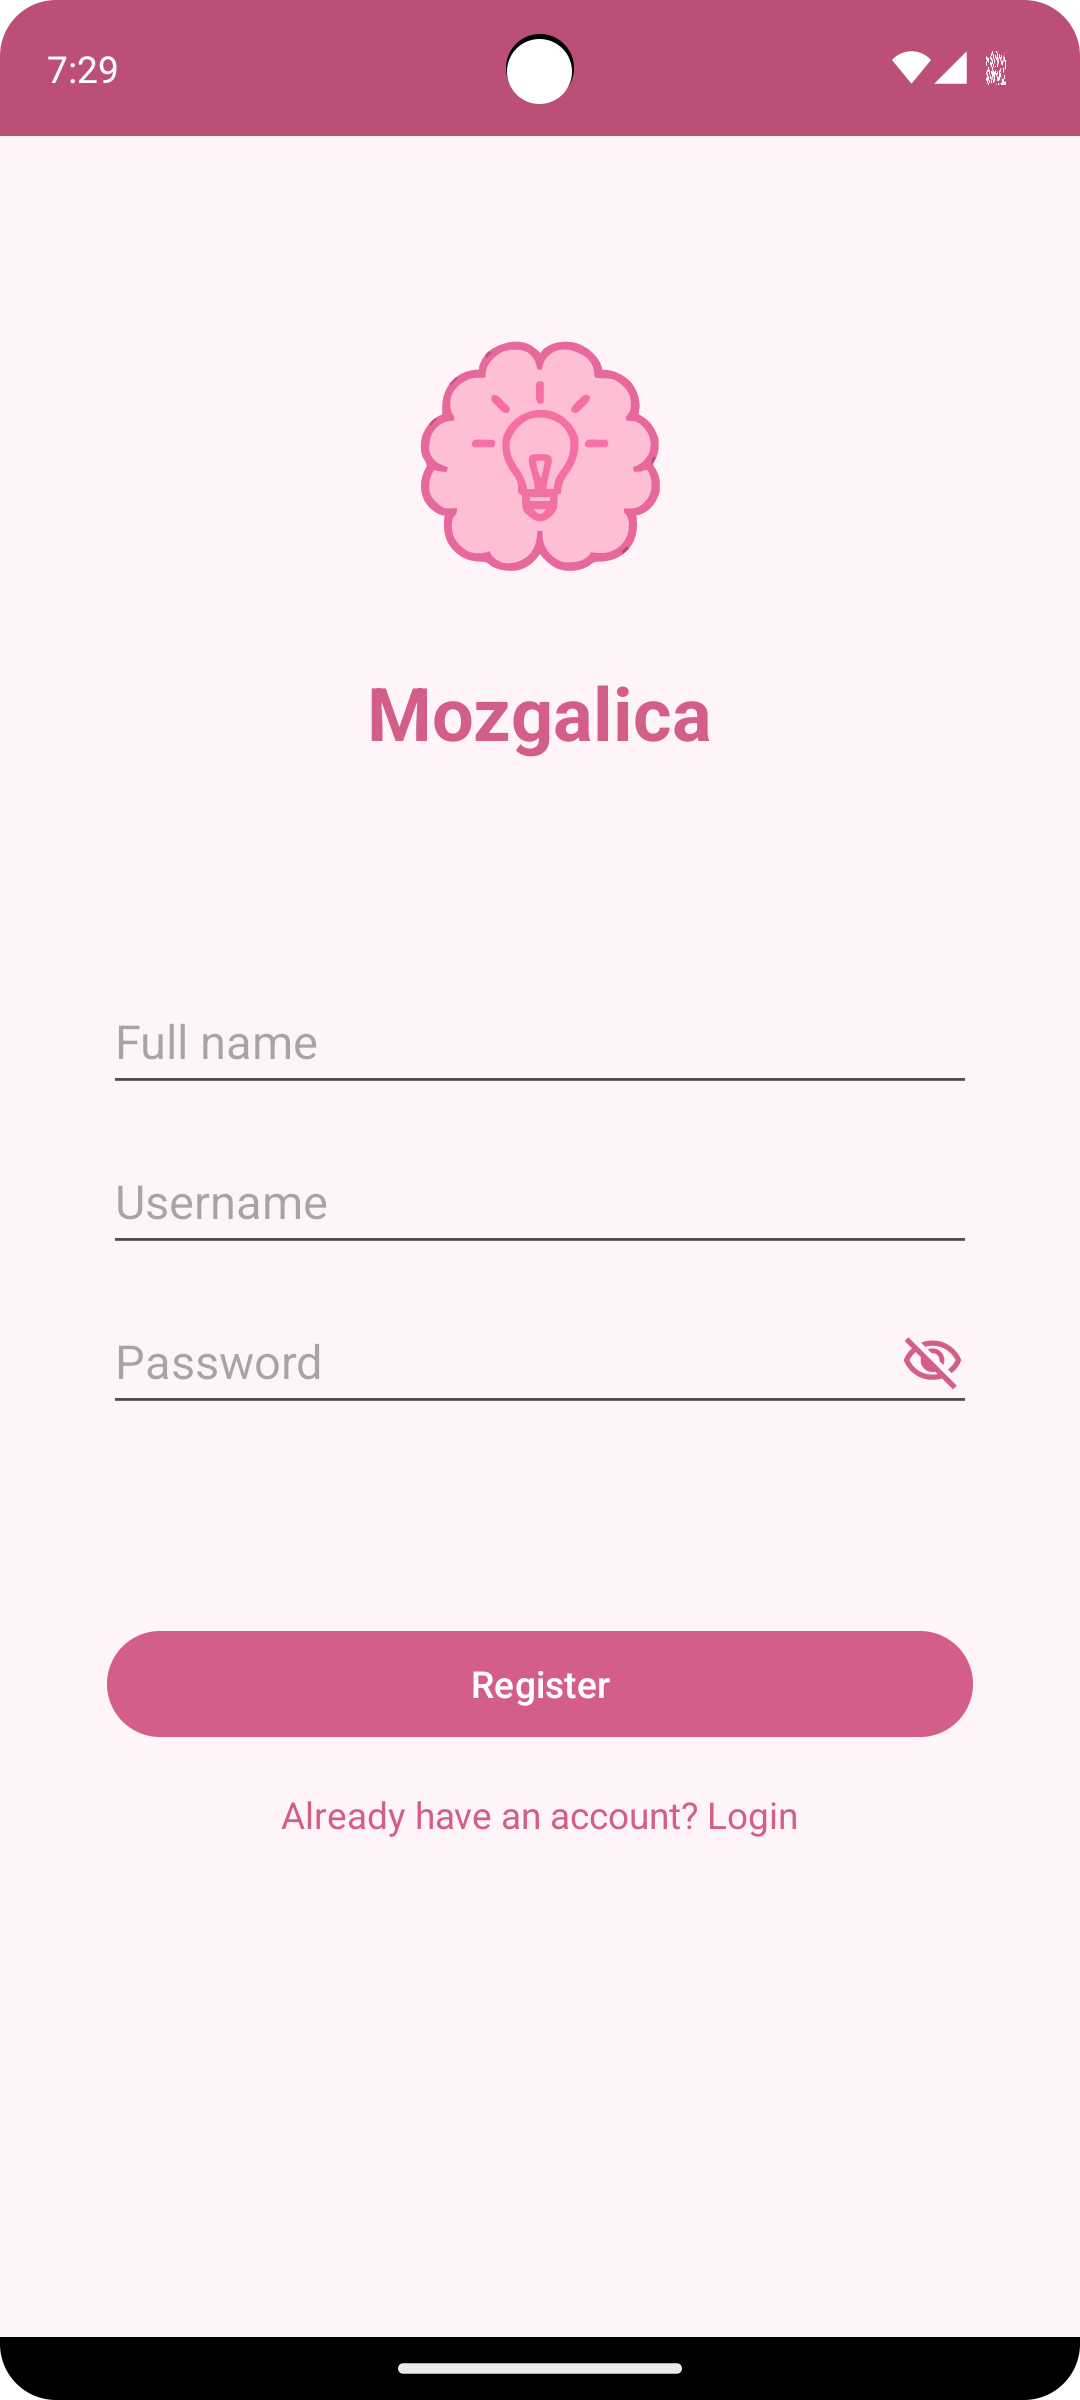
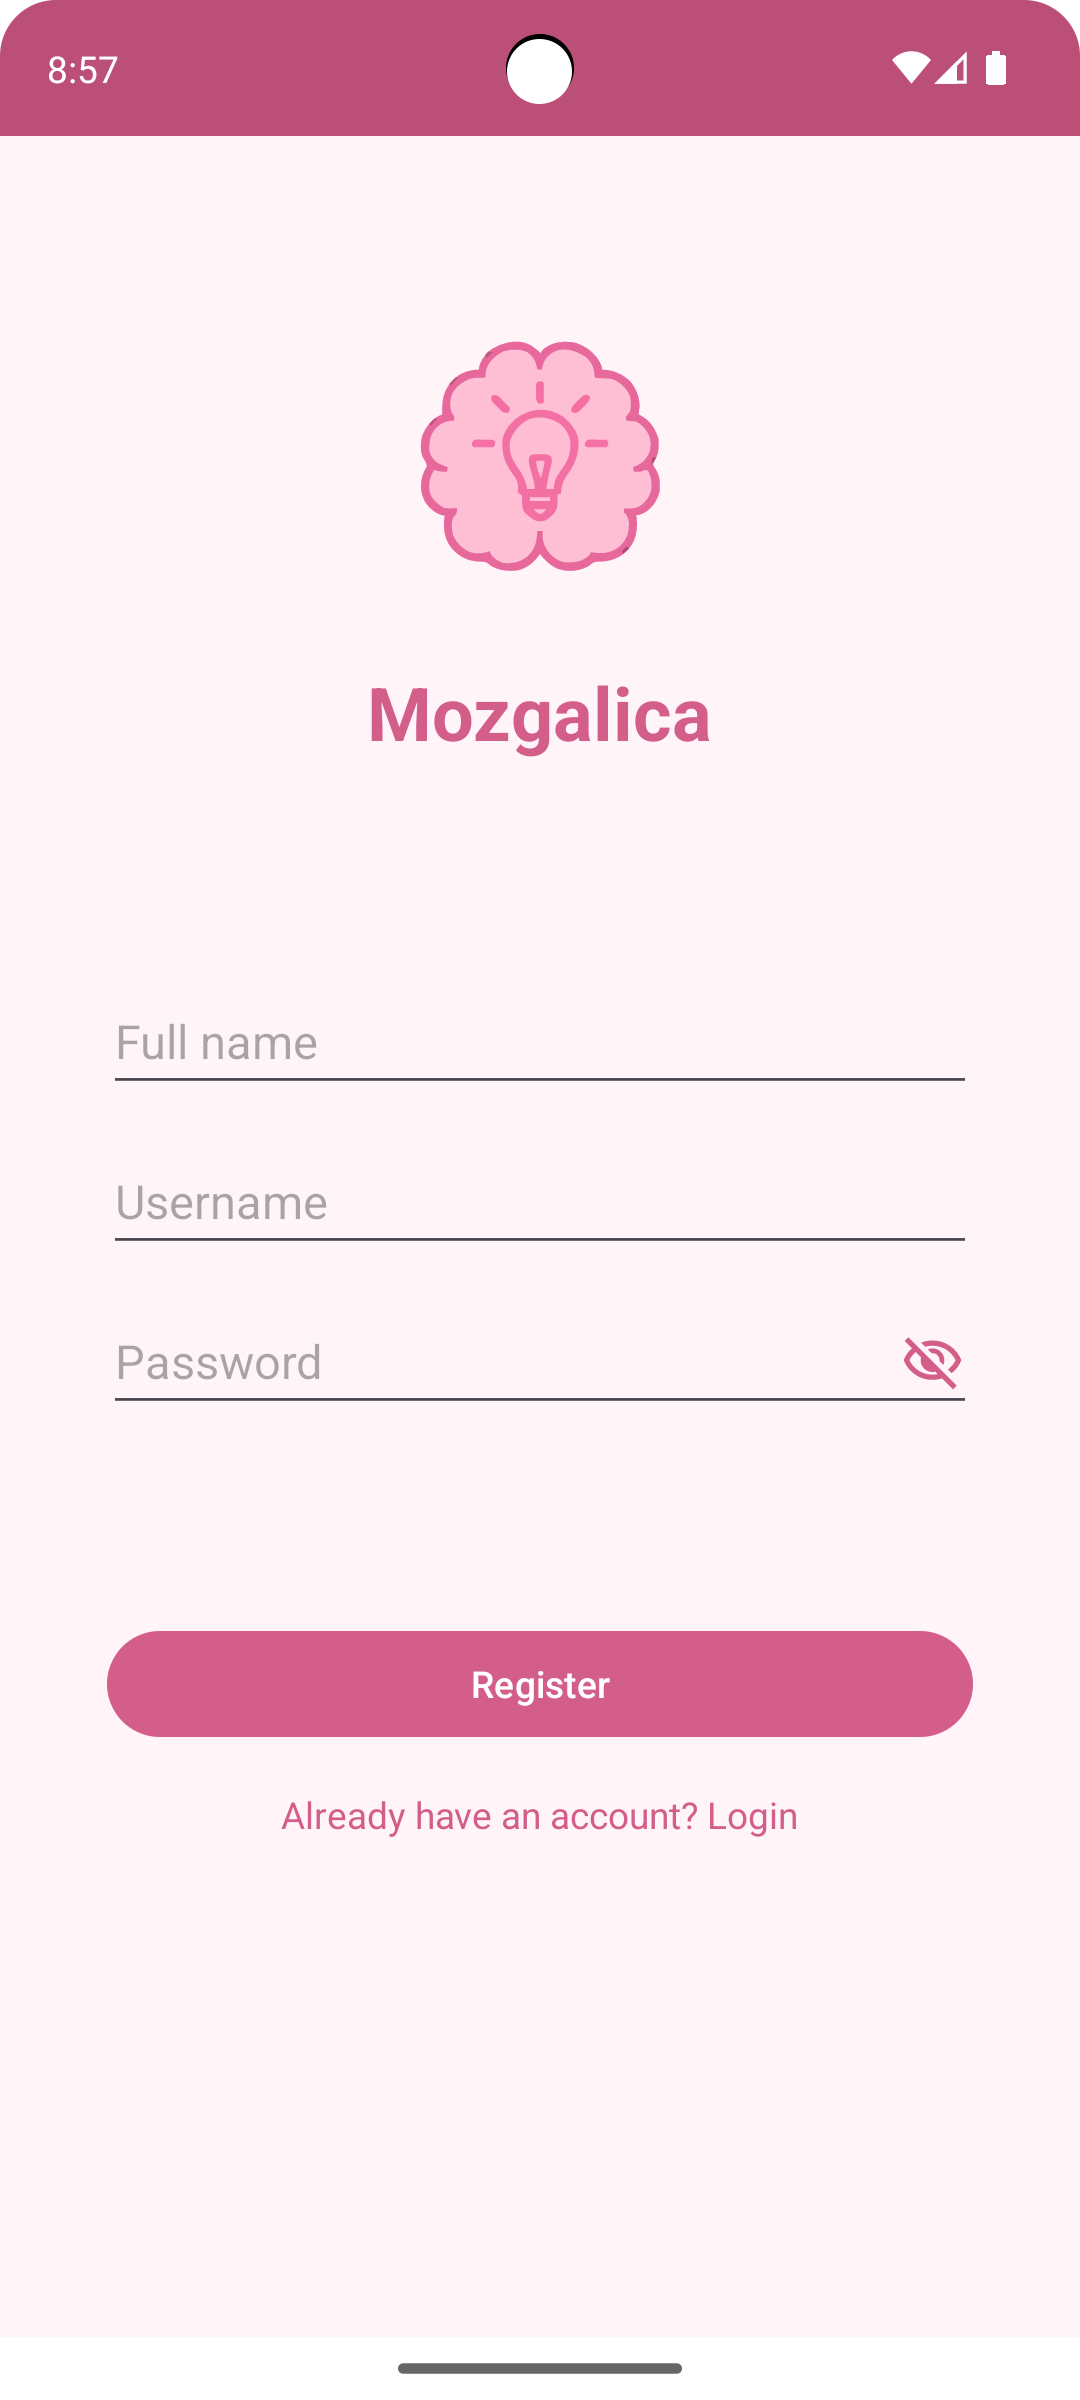
Updated screen layouts

Changed region(s): [[0.0, 0.9688, 1.0, 1.0]]

diff --git a/Mozgalica/app/src/main/java/com/example/mozgalica/activities/MemoryMatchActivity.java b/Mozgalica/app/src/main/java/com/example/mozgalica/activities/MemoryMatchActivity.java
@@ -4,6 +4,7 @@ import android.app.AlertDialog;
 import android.content.Intent;
 import android.os.Bundle;
 import android.view.View;
+import android.view.WindowInsetsController;
 import android.widget.ImageButton;
 
 import androidx.activity.EdgeToEdge;
@@ -50,6 +51,14 @@ public class MemoryMatchActivity extends AppCompatActivity {
         if (android.os.Build.VERSION.SDK_INT >= android.os.Build.VERSION_CODES.LOLLIPOP) {
             getWindow().setStatusBarColor(getResources().getColor(R.color.colorPrimaryVariant));
         }
+
+        if (android.os.Build.VERSION.SDK_INT >= android.os.Build.VERSION_CODES.R) {
+            getWindow().getInsetsController().setSystemBarsAppearance(0,
+                    WindowInsetsController.APPEARANCE_LIGHT_STATUS_BARS);
+        } else if (android.os.Build.VERSION.SDK_INT >= android.os.Build.VERSION_CODES.M) {
+            getWindow().getDecorView().setSystemUiVisibility(View.SYSTEM_UI_FLAG_LAYOUT_STABLE);
+        }
+
 
         ViewCompat.setOnApplyWindowInsetsListener(findViewById(R.id.main), (v, insets) -> {
             Insets systemBars = insets.getInsets(WindowInsetsCompat.Type.systemBars());

diff --git a/Mozgalica/app/src/main/java/com/example/mozgalica/activities/HistoryActivity.java b/Mozgalica/app/src/main/java/com/example/mozgalica/activities/HistoryActivity.java
@@ -4,6 +4,7 @@ import android.content.Intent;
 import android.os.Bundle;
 import android.view.LayoutInflater;
 import android.view.View;
+import android.view.WindowInsetsController;
 import android.widget.Button;
 import android.widget.EditText;
 import android.widget.ImageView;
@@ -37,6 +38,13 @@ public class HistoryActivity extends AppCompatActivity {
 
         if (android.os.Build.VERSION.SDK_INT >= android.os.Build.VERSION_CODES.LOLLIPOP) {
             getWindow().setStatusBarColor(getResources().getColor(R.color.colorPrimaryVariant));
+        }
+
+        if (android.os.Build.VERSION.SDK_INT >= android.os.Build.VERSION_CODES.R) {
+            getWindow().getInsetsController().setSystemBarsAppearance(0,
+                    WindowInsetsController.APPEARANCE_LIGHT_STATUS_BARS);
+        } else if (android.os.Build.VERSION.SDK_INT >= android.os.Build.VERSION_CODES.M) {
+            getWindow().getDecorView().setSystemUiVisibility(View.SYSTEM_UI_FLAG_LAYOUT_STABLE);
         }
 
         ViewCompat.setOnApplyWindowInsetsListener(findViewById(R.id.main), (v, insets) -> {

diff --git a/Mozgalica/app/src/main/java/com/example/mozgalica/activities/SudokuActivity.java b/Mozgalica/app/src/main/java/com/example/mozgalica/activities/SudokuActivity.java
@@ -6,6 +6,7 @@ import android.os.Bundle;
 import android.view.Gravity;
 import android.view.View;
 import android.view.ViewGroup;
+import android.view.WindowInsetsController;
 import android.widget.GridLayout;
 import android.widget.TextView;
 import android.widget.Toast;
@@ -44,6 +45,13 @@ public class SudokuActivity extends AppCompatActivity {
 
         if (android.os.Build.VERSION.SDK_INT >= android.os.Build.VERSION_CODES.LOLLIPOP) {
             getWindow().setStatusBarColor(getResources().getColor(R.color.colorPrimaryVariant));
+        }
+
+        if (android.os.Build.VERSION.SDK_INT >= android.os.Build.VERSION_CODES.R) {
+            getWindow().getInsetsController().setSystemBarsAppearance(0,
+                    WindowInsetsController.APPEARANCE_LIGHT_STATUS_BARS);
+        } else if (android.os.Build.VERSION.SDK_INT >= android.os.Build.VERSION_CODES.M) {
+            getWindow().getDecorView().setSystemUiVisibility(View.SYSTEM_UI_FLAG_LAYOUT_STABLE);
         }
 
         ViewCompat.setOnApplyWindowInsetsListener(findViewById(R.id.main), (v, insets) -> {

diff --git a/Mozgalica/app/src/main/java/com/example/mozgalica/activities/TicTacToeActivity.java b/Mozgalica/app/src/main/java/com/example/mozgalica/activities/TicTacToeActivity.java
@@ -3,6 +3,7 @@ package com.example.mozgalica.activities;
 import android.content.Intent;
 import android.os.Bundle;
 import android.view.View;
+import android.view.WindowInsetsController;
 import android.widget.TextView;
 import android.widget.Toast;
 
@@ -32,6 +33,13 @@ public class TicTacToeActivity extends AppCompatActivity {
 
         if (android.os.Build.VERSION.SDK_INT >= android.os.Build.VERSION_CODES.LOLLIPOP) {
             getWindow().setStatusBarColor(getResources().getColor(R.color.colorPrimaryVariant));
+        }
+
+        if (android.os.Build.VERSION.SDK_INT >= android.os.Build.VERSION_CODES.R) {
+            getWindow().getInsetsController().setSystemBarsAppearance(0,
+                    WindowInsetsController.APPEARANCE_LIGHT_STATUS_BARS);
+        } else if (android.os.Build.VERSION.SDK_INT >= android.os.Build.VERSION_CODES.M) {
+            getWindow().getDecorView().setSystemUiVisibility(View.SYSTEM_UI_FLAG_LAYOUT_STABLE);
         }
 
         ViewCompat.setOnApplyWindowInsetsListener(findViewById(R.id.main), (v, insets) -> {

diff --git a/Mozgalica/app/src/main/java/com/example/mozgalica/activities/MainMenuActivity.java b/Mozgalica/app/src/main/java/com/example/mozgalica/activities/MainMenuActivity.java
@@ -25,6 +25,7 @@ public class MainMenuActivity extends AppCompatActivity {
 
         if (android.os.Build.VERSION.SDK_INT >= android.os.Build.VERSION_CODES.LOLLIPOP) {
             getWindow().setStatusBarColor(getResources().getColor(R.color.colorPrimaryVariant));
+            getWindow().setNavigationBarColor(getResources().getColor(android.R.color.white));
         }
 
         username = getIntent().getStringExtra("USERNAME");

diff --git a/Mozgalica/app/src/main/java/com/example/mozgalica/activities/SettingsActivity.java b/Mozgalica/app/src/main/java/com/example/mozgalica/activities/SettingsActivity.java
@@ -20,6 +20,7 @@ public class SettingsActivity extends AppCompatActivity {
 
         if (android.os.Build.VERSION.SDK_INT >= android.os.Build.VERSION_CODES.LOLLIPOP) {
             getWindow().setStatusBarColor(getResources().getColor(R.color.colorPrimaryVariant));
+            getWindow().setNavigationBarColor(getResources().getColor(android.R.color.white));
         }
 
         ImageView btnBack = findViewById(R.id.btnBack);

diff --git a/Mozgalica/app/src/main/java/com/example/mozgalica/activities/HomeActivity.java b/Mozgalica/app/src/main/java/com/example/mozgalica/activities/HomeActivity.java
@@ -24,6 +24,7 @@ public class HomeActivity extends AppCompatActivity {
 
         if (android.os.Build.VERSION.SDK_INT >= android.os.Build.VERSION_CODES.LOLLIPOP) {
             getWindow().setStatusBarColor(getResources().getColor(R.color.colorPrimaryVariant));
+            getWindow().setNavigationBarColor(getResources().getColor(android.R.color.white));
         }
 
         TextView tvWelcome = findViewById(R.id.tvWelcome);

diff --git a/Mozgalica/app/src/main/java/com/example/mozgalica/activities/GameDetailsActivity.java b/Mozgalica/app/src/main/java/com/example/mozgalica/activities/GameDetailsActivity.java
@@ -22,6 +22,7 @@ public class GameDetailsActivity extends AppCompatActivity {
 
         if (android.os.Build.VERSION.SDK_INT >= android.os.Build.VERSION_CODES.LOLLIPOP) {
             getWindow().setStatusBarColor(getResources().getColor(R.color.colorPrimaryVariant));
+            getWindow().setNavigationBarColor(getResources().getColor(android.R.color.white));
         }
 
         tvTitle = findViewById(R.id.tvTitle);

diff --git a/Mozgalica/app/src/main/java/com/example/mozgalica/activities/RegisterActivity.java b/Mozgalica/app/src/main/java/com/example/mozgalica/activities/RegisterActivity.java
@@ -37,6 +37,7 @@ public class RegisterActivity extends AppCompatActivity {
 
         if (android.os.Build.VERSION.SDK_INT >= android.os.Build.VERSION_CODES.LOLLIPOP) {
             getWindow().setStatusBarColor(getResources().getColor(R.color.colorPrimaryVariant));
+            getWindow().setNavigationBarColor(getResources().getColor(android.R.color.white));
         }
 
         dbHelper = new DatabaseHelper(this);

diff --git a/Mozgalica/app/src/main/java/com/example/mozgalica/activities/LoginActivity.java b/Mozgalica/app/src/main/java/com/example/mozgalica/activities/LoginActivity.java
@@ -36,6 +36,7 @@ public class LoginActivity extends AppCompatActivity {
 
         if (android.os.Build.VERSION.SDK_INT >= android.os.Build.VERSION_CODES.LOLLIPOP) {
             getWindow().setStatusBarColor(getResources().getColor(R.color.colorPrimaryVariant));
+            getWindow().setNavigationBarColor(getResources().getColor(android.R.color.white));
         }
 
         dbHelper = new DatabaseHelper(this);

diff --git a/README.md b/README.md
@@ -13,55 +13,55 @@
 ## 🏠 Register, login and home page
 Allows users to create an account and log in using a unique username. This step is required to access the games and use the application. After logging in, users are redirected to the main menu where they can choose a game, view results, or change settings.
 
-<div style="margin-left: 20px;">
-  <img src="Screenshots/register.png" alt="Register screen" width="250" style="display: inline-block; margin-right: 10px;"/>
-  <img src="Screenshots/login.png" alt="Login screen" width="250" style="display: inline-block; margin-right: 10px;"/>
-  <img src="Screenshots/home.png" alt="Home screen" width="250" style="display: inline-block;"/>
+<div style="text-align: center;">
+  <img src="Screenshots/register.png" alt="Register screen" width="250" style="display: inline-block; margin-right: 10px;" />
+  <img src="Screenshots/login.png" alt="Login screen" width="250" style="display: inline-block; margin-right: 10px;" />
+  <img src="Screenshots/home.png" alt="Home screen" width="250" style="display: inline-block;" />
 </div>
 
 
 ## 🎮 Game pages
 Users can view all available games in one place. From the list, they can select one of the three offered games to either read the game description and rules or start playing.
 
- <img src="Screenshots/games.png" alt="Games screen" width="250" style="margin-left: 20px;"/>
+ <img src="Screenshots/games.png" alt="Games screen" width="250" style="display: block; margin: 0 auto;" />
 
  Each game includes its own interface, scoring logic, and a link to a related YouTube video tutorial. The games are:
 
  - Tic-Tac-Toe
 
-   <div style="margin-left: 20px;">
-     <img src="Screenshots/firstGame.png" alt="Tic-Tac-Toe game" width="250" style="display: inline-block; margin-right: 10px;"/>
-     <img src="Screenshots/firstGameDetails.png" alt="Tic-Tac-Toe details" width="250" style="display: inline-block;"/>
-   </div>
+<div style="text-align: center;">
+  <img src="Screenshots/firstGame.png" alt="Tic-Tac-Toe game" width="250" style="margin-right: 10px;" />
+  <img src="Screenshots/firstGameDetails.png" alt="Tic-Tac-Toe details" width="250" />
+</div>
   
  - Memory match
 
-   <div style="margin-left: 20px;">
-     <img src="Screenshots/secondGame.png" alt="Memory Match game" width="250" style="display: inline-block; margin-right: 10px;"/>
-     <img src="Screenshots/secondGameDetails.png" alt="Memory Match details" width="250" style="display: inline-block;"/>
-   </div>
+<div style="text-align: center;">
+  <img src="Screenshots/secondGame.png" alt="Memory Match game" width="250" style="margin-right: 10px;" />
+  <img src="Screenshots/secondGameDetails.png" alt="Memory Match details" width="250" />
+</div>
 
   - Sudoku
 
-   <div style="margin-left: 20px;">
-     <img src="Screenshots/thirdGame.png" alt="Sudoku game" width="250" style="display: inline-block; margin-right: 10px;"/>
-     <img src="Screenshots/thirdGameDetails.png" alt="Sudoku details" width="250" style="display: inline-block;"/>
-   </div>
+<div style="text-align: center;">
+  <img src="Screenshots/thirdGame.png" alt="Sudoku game" width="250" style="margin-right: 10px;" />
+  <img src="Screenshots/thirdGameDetails.png" alt="Sudoku details" width="250" />
+</div>
 
 
 ## 📊 Results page
 Displays a history of all game results with the ability to search by username, game name, result, or score.
 
-<div style="margin-left: 20px;">
-  <img src="Screenshots/results.png" alt="Results screen" width="250" style="display: inline-block; margin-right: 10px;"/>
-  <img src="Screenshots/searchResults.png" alt="Search results screen" width="250" style="display: inline-block;"/>
+<div style="text-align: center;">
+  <img src="Screenshots/results.png" alt="Results screen" width="250" style="margin-right: 10px;" />
+  <img src="Screenshots/searchResults.png" alt="Search results screen" width="250" />
 </div>
 
 
 ## ⚙ Settings page
 Allows users to switch the application language (Serbian or English) and log out. All language changes are applied immediately throughout the entire app.
 
- <img src="Screenshots/settings.png" alt="Settings screen" width="250" style="margin-left: 20px;"/>
+<img src="Screenshots/settings.png" alt="Settings screen" width="250" style="display: block; margin: 0 auto;" />
 
 
 ## 📄 Reference to the detailed description
